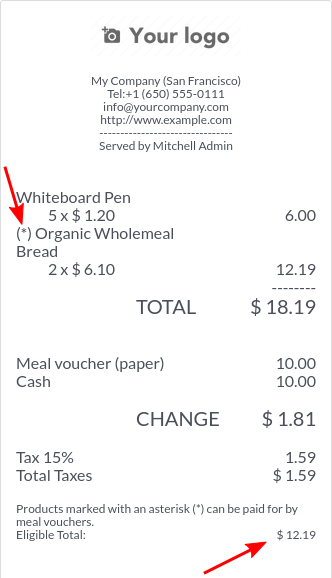
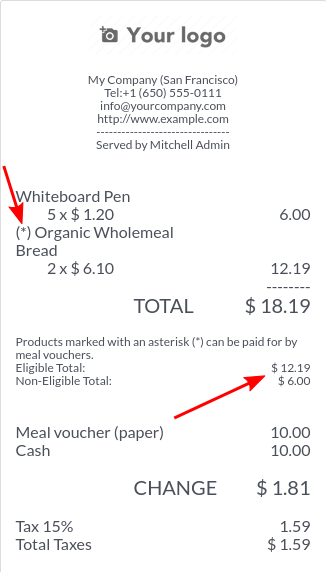
[IMP] adjust information on receipt
* move meal voucher totals just after the total.
* add non-eligible total amount.

diff --git a/pos_meal_voucher/static/src/js/models.esm.js b/pos_meal_voucher/static/src/js/models.esm.js
@@ -26,6 +26,18 @@ const MealVoucherOrder = (OriginalOrder) =>
             );
         }
 
+        get_total_meal_voucher_non_eligible() {
+            return round_pr(
+                this.orderlines.reduce(function (sum, orderLine) {
+                    if (!orderLine.product.meal_voucher_ok) {
+                        return sum + orderLine.get_price_with_tax();
+                    }
+                    return sum;
+                }, 0),
+                this.pos.currency.rounding
+            );
+        }
+
         get_total_meal_voucher_received() {
             return round_pr(
                 this.paymentlines.reduce(function (sum, paymentLine) {

diff --git a/pos_meal_voucher/static/src/scss/pos_meal_voucher.scss b/pos_meal_voucher/static/src/scss/pos_meal_voucher.scss
@@ -51,6 +51,6 @@
     margin-bottom: -(map-get($spacers, 2));
 }
 
-.pos-receipt-meal-voucher-eligible {
+.pos-receipt-meal-voucher-totals {
     font-size: 75%;
 }
